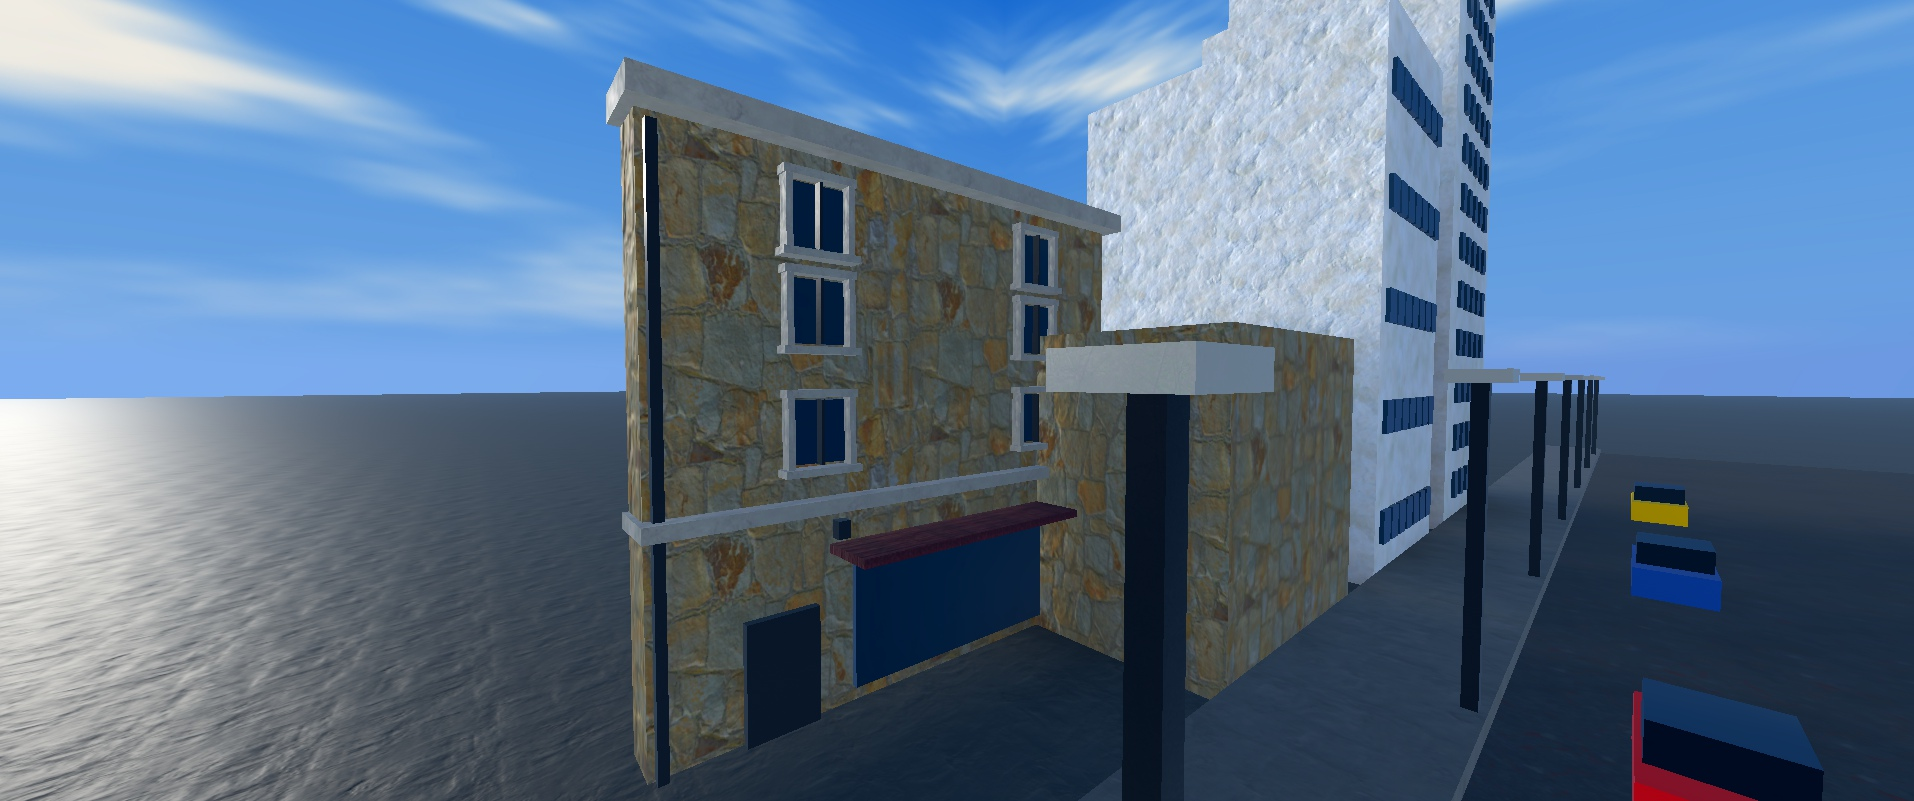
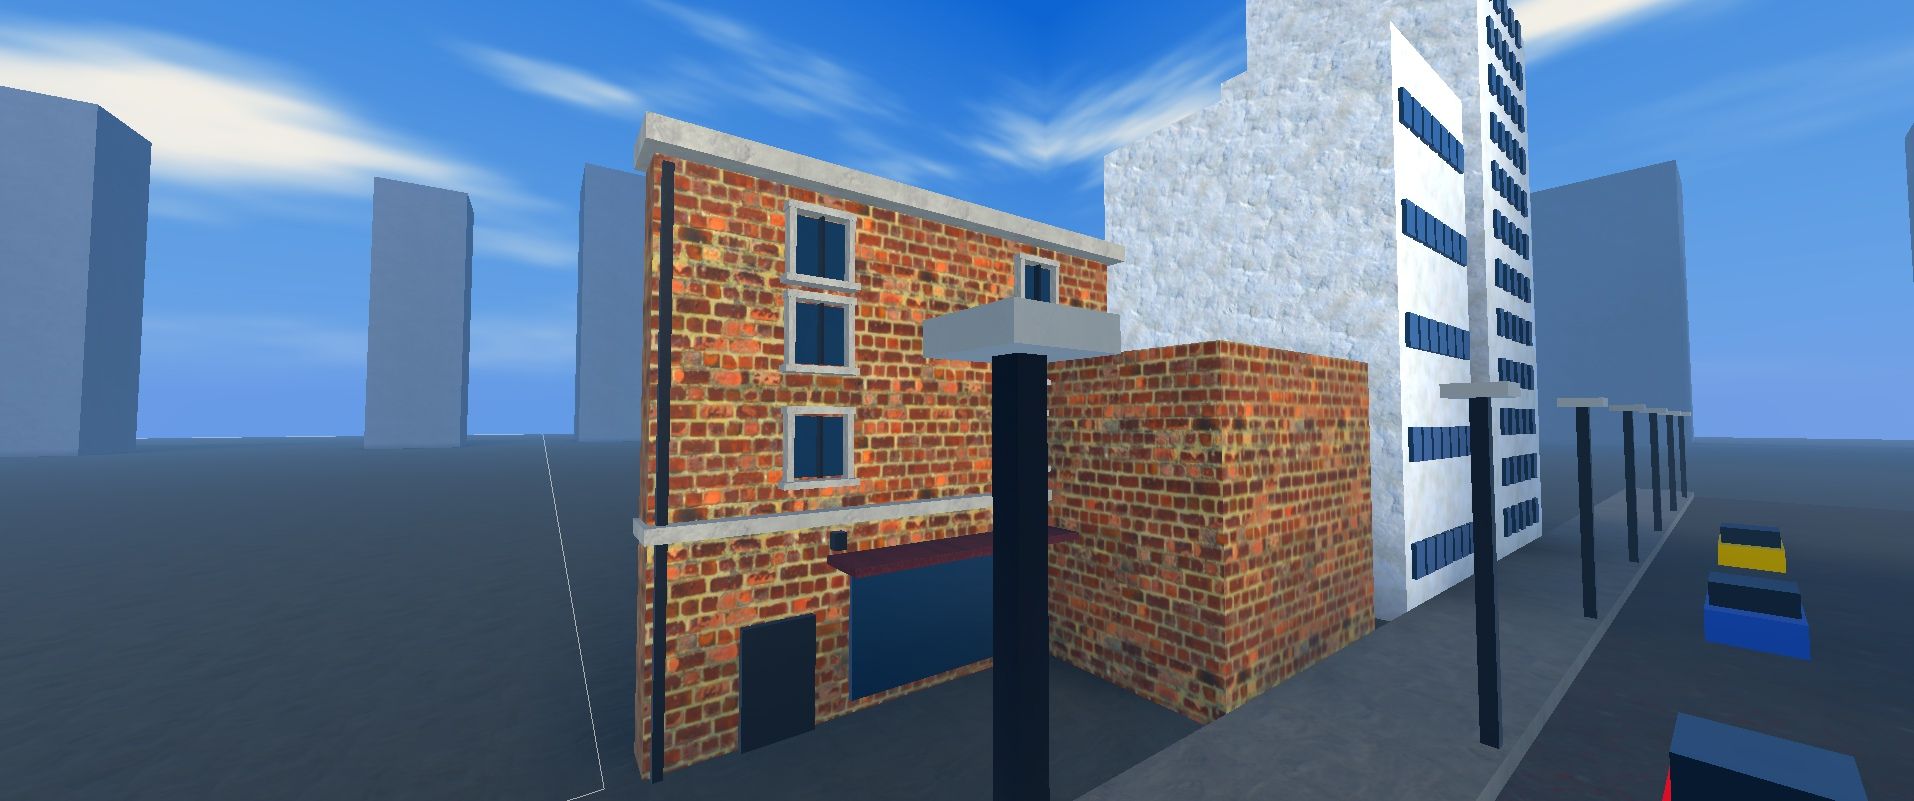
fix: ladrillo de Manhattan, sol de frente y horizonte tapado
Cuatro correcciones sobre la fachada de referencia:

- Ladrillo: Bricks075A parecía sillería. Se sustituye por Bricks097 (rojo
  desgastado) y Bricks042 (cálido), alternados por edificio.
- Sol de mañana (ClockTime 7,7): la fachada mira a +X y ahora recibe la luz de
  frente, con las sombras del toldo y la cornisa sobre el muro.
- Torres altas con albedo bajo: el hormigón claro a plena luz se quemaba.
- Skyline de 26 bloques a 340-520 studs: tapa el borde del mundo y da profundidad.

Se descartan los ids del ladrillo anterior; quedan anotados como obsoletos.

diff --git a/art/textures/cc0/CREDITS.md b/art/textures/cc0/CREDITS.md
@@ -5,9 +5,13 @@ atribución obligatoria. Se acredita igualmente por trazabilidad.
 
 | Set local | Asset ambientCG | Fecha |
 | --- | --- | --- |
-| `brick_*` | `Bricks075A` | 2026-11-02 |
+| `brick_red_*` | `Bricks097` | 2026-11-02 |
+| `brick_warm_*` | `Bricks042` | 2026-11-02 |
 | `concrete_*` | `Concrete034` | 2026-11-02 |
 | `asphalt_*` | `Asphalt012` | 2026-11-02 |
+
+`Bricks075A` se descartó: es sillería rústica y parecía roca. `Bricks097` es ladrillo rojo
+desgastado y `Bricks042` ladrillo cálido, los dos con junta regular, que es lo que pide Manhattan.
 
 Cada set trae `_color` (albedo), `_normal` (NormalGL, el formato OpenGL que Roblox exige) y
 `_roughness` (gris). Los originales son JPG de 1K, que es el tamaño que usa el juego.
